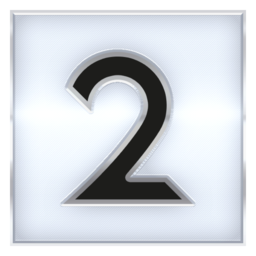
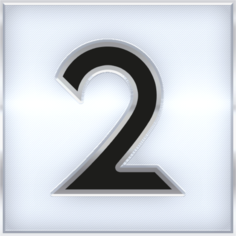
项目封面

diff --git a/src/App.vue b/src/App.vue
@@ -62,6 +62,17 @@ const backgroundStyle = computed(() => {
 	};
 });
 
+// 侧栏图标：config.json -> appIcon。相对路径（主进程已按 custom 子目录重写，如 ES2/Everspace2.ico）
+// 同样走 app-asset 协议，dev 与打包后都能加载；base64 / http(s) 直接使用。
+const appIconStyle = computed(() => {
+	const src = configStore.config?.appIcon;
+	if (!src) return {};
+	const url = /^(?:data:|blob:|http:|https:)/i.test(src)
+		? src
+		: `app-asset://local/?src=${encodeURIComponent(src)}`;
+	return { backgroundImage: `url("${url}")` };
+});
+
 // 第一个叶子菜单项（有 children 就递归取第一个子项）
 const firstLeaf = function (items: any[]): any {
 	const first = items?.[0];
@@ -202,24 +213,27 @@ onMounted(async () => {
 	<div class="root h-full" :style="backgroundStyle">
 		<LoadFile :loading="fileState.loading" :loaded="fileState.loaded" @loadFiles="loadAll" />
 		<div class="flex justify-start h-full">
-			<div class="menu w-[10rem] bg-primary overflow-y-auto">
-				<Menu
-					v-model:open-keys="state.openKey"
-					v-model:selected-keys="state.selectedKey"
-					:theme="'dark'"
-					:items="menu"
-					:mode="'inline'"
-					class="relative select-none h-full"
-					@select="
-						({ item }) => {
-							state.activeMenu = item;
-						}
-					"
-				></Menu>
-				<div class="ver select-none">
-					UI:{{ uiVersion }}<br />main:{{ configStore.config?.ver }}
+			<aside class="side flex flex-col w-[10rem] bg-primary">
+				<div class="h-[10rem] bg-contain bg-center bg-no-repeat" :style="appIconStyle"></div>
+				<div class="menu flex-1 overflow-y-auto">
+					<Menu
+						v-model:open-keys="state.openKey"
+						v-model:selected-keys="state.selectedKey"
+						:theme="'dark'"
+						:items="menu"
+						:mode="'inline'"
+						class="relative select-none h-full"
+						@select="
+							({ item }) => {
+								state.activeMenu = item;
+							}
+						"
+					></Menu>
+					<div class="ver select-none">
+						UI:{{ uiVersion }}<br />main:{{ configStore.config?.ver }}
+					</div>
 				</div>
-			</div>
+			</aside>
 			<div class="content flex-1 h-full overflow-y-auto">
 				<FormBuilder
 					:config="activeCategory"
